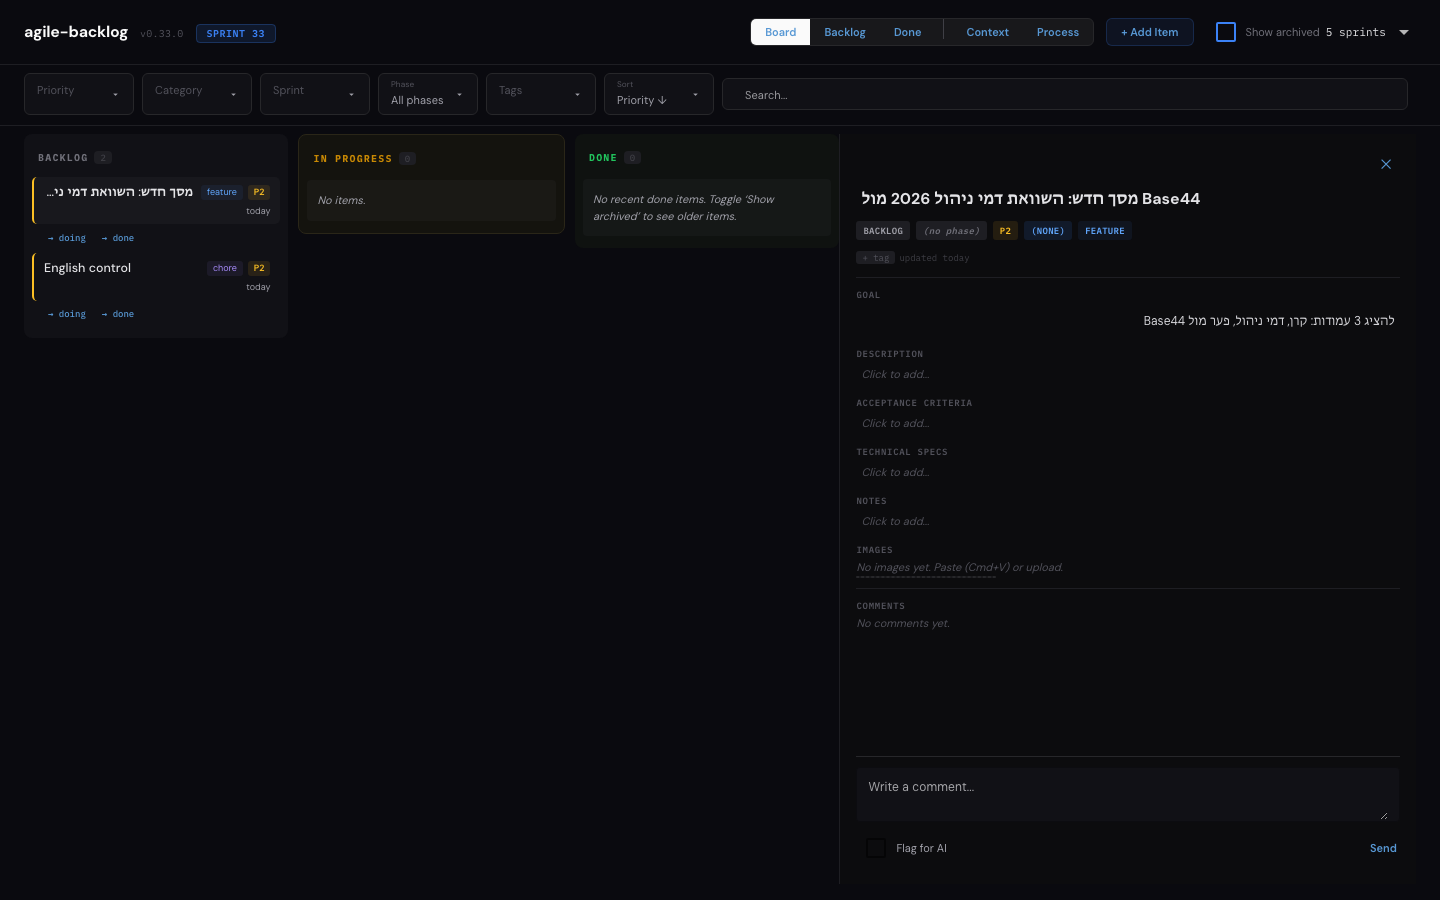
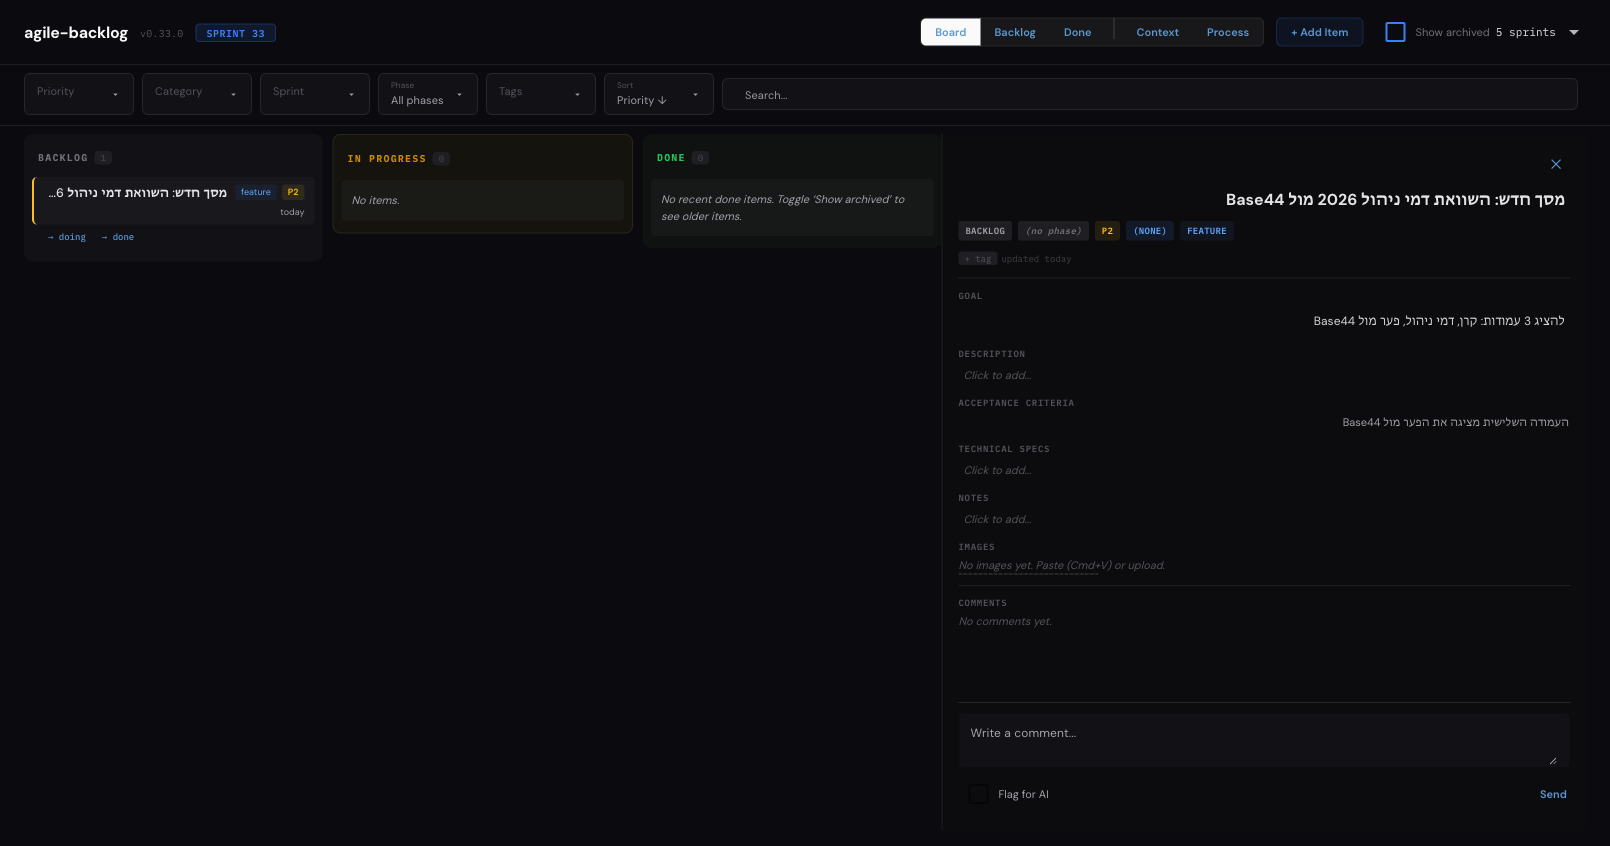
fix(board): descendant bidi coverage, derived test, and --id hardening
Final whole-branch review (Rulings 5-8):

- .mc-editable * closes the Critical-1 gap: unicode-bidi is not
  inherited, and every .mc-editable site is a ui.html(...) wrapper
  whose text lives one element in, so the wrapper-only rule was a
  no-op. pre/code get an !important reset so markdown code blocks
  stay LTR.
- tests/test_bidi.py derives wrapper-class coverage from
  components.py at test time instead of a hand-written list, so it
  actually fails on a wrapper-only rule (verified RED, see report).
- add --id: the derived-slug guard now fires whenever the slug has
  no ASCII letter, not only when it's empty (a Hebrew title with a
  year would otherwise become e.g. backlog/2026.yaml). An explicit
  --id that collides is refused instead of silently suffixed; a
  derived slug still suffixes as before.
- docs/CLI.md and both bidi screenshots updated to match.

Full report incl. RED output, ruff, and the objective bidi
measurement (rect-based, not just screenshots) at
.superpowers/sdd/2026-09-22-hebrew-items/final-fix-report.md.

diff --git a/tests/test_bidi.py b/tests/test_bidi.py
@@ -3,19 +3,37 @@
 # Latin token in it renders scrambled under a fixed LTR base direction; the
 # fix is one CSS rule — unicode-bidi: plaintext — on every text-bearing
 # element, which is what dir="auto" does, without a per-site attribute.
+#
+# unicode-bidi is NOT inherited. A wrapper-only rule (".mc-editable" with
+# no descendant form) is a no-op: every .mc-editable site is a bare
+# ui.html(...) wrapper, and the text lives in an element ui.html() creates
+# one level in (components.py:445, :626), so the rule must reach the
+# wrapper's descendants too. That is exactly the defect a hand-written
+# selector list cannot catch — ".mc-editable" is textually present either
+# way — so the wrapper-class coverage below is DERIVED from components.py
+# at test time, not hand-maintained.
 
+import re
 from pathlib import Path
 
 STYLES = Path(__file__).parent.parent / "src" / "agile_backlog" / "styles.py"
+COMPONENTS = Path(__file__).parent.parent / "src" / "agile_backlog" / "components.py"
 
-TEXT_SELECTORS = [
+# Framework/tag selectors that carry text directly on the element itself
+# (not an app-defined wrapper class), so there is no source list to derive
+# them from and no descendant form is needed.
+FRAMEWORK_TEXT_SELECTORS = [
     ".mc-card-row span",
-    ".mc-editable",
     ".q-field__native",
     "textarea",
     ".nicegui-markdown",
-    ".q-item__label",
 ]
+
+# Matches the actual defect site: a class applied via .classes("mc-...")
+# directly on a ui.html(...) call, e.g.
+#   ui.html(f'<div ...>{safe_html(item.title)}</div>').classes("mc-editable")
+# Verified against the real sites at components.py:445 and :626.
+_WRAPPER_CLASS_RE = re.compile(r'ui\.html\([^\n]*\)\.classes\("(mc-[\w-]+)"\)')
 
 
 def _plaintext_rule() -> str:
@@ -26,11 +44,44 @@ def _plaintext_rule() -> str:
     return css[selector_start:block_start]
 
 
+def _selector_present(selectors: str, selector: str) -> bool:
+    """True if `selector` appears in `selectors` as a whole selector, not
+    merely as a prefix of some other, longer selector (e.g. ".mc-editable"
+    must not match a hypothetical ".mc-editable-foo")."""
+    pattern = re.compile(r"(?<![\w-])" + re.escape(selector) + r"(?=[,\s{]|$)")
+    return bool(pattern.search(selectors))
+
+
+def _wrapper_classes_needing_descendant_coverage() -> set[str]:
+    """Classes applied to a bare ui.html(...) wrapper in components.py."""
+    return set(_WRAPPER_CLASS_RE.findall(COMPONENTS.read_text()))
+
+
 def test_global_css_declares_plaintext_bidi():
     assert "unicode-bidi: plaintext" in STYLES.read_text()
 
 
-def test_every_text_bearing_selector_is_covered():
+def test_framework_text_selectors_are_covered():
     selectors = _plaintext_rule()
-    missing = [s for s in TEXT_SELECTORS if s not in selectors]
+    missing = [s for s in FRAMEWORK_TEXT_SELECTORS if not _selector_present(selectors, s)]
     assert not missing, f"selectors without unicode-bidi: plaintext: {missing}"
+
+
+def test_every_wrapper_class_is_covered_as_wrapper_and_descendant():
+    """Derived from source, not hand-written (final-review Important 2): a
+    hand-written list is textually satisfied by ".mc-editable" alone and
+    stays green on the broken wrapper-only rule. Deriving the class from
+    the actual ui.html(...).classes(...) call sites and requiring BOTH the
+    wrapper form and the descendant form (`X` and `X *`) is what makes this
+    test fail on the wrapper-only rule."""
+    classes = _wrapper_classes_needing_descendant_coverage()
+    assert classes, "no ui.html(...).classes('mc-...') sites found in components.py — regex is stale"
+
+    selectors = _plaintext_rule()
+    missing = []
+    for cls in sorted(classes):
+        if not _selector_present(selectors, f".{cls}"):
+            missing.append(f".{cls}")
+        if not _selector_present(selectors, f".{cls} *"):
+            missing.append(f".{cls} *")
+    assert not missing, f"wrapper classes missing wrapper/descendant coverage: {missing}"

diff --git a/tests/test_cli.py b/tests/test_cli.py
@@ -137,15 +137,40 @@ class TestAdd:
             result = runner.invoke(main, ["add", "x", "--category", "feature", "--id", bad])
             assert result.exit_code == 2, bad
             assert "--id" in result.output, bad
+            assert "Invalid value for '--id'" in result.output, bad
         assert list(backlog_dir.iterdir()) == []
 
-    def test_add_explicit_id_collides_like_a_slug(self, runner: CliRunner, backlog_dir: Path):
+    def test_add_derived_slug_with_no_ascii_letter_is_refused(self, runner: CliRunner, backlog_dir: Path):
+        """A Hebrew title carrying a year slugifies to a bare number
+        ('2026') — accepting it would silently create backlog/2026.yaml.
+        The guard fires whenever the derived slug has no ASCII letter, not
+        only when it is empty."""
+        result = runner.invoke(main, ["add", "דוח 2026 לפי לקוח", "--category", "feature"])
+        assert result.exit_code == 2
+        assert "Title produces an invalid ID" in result.output
+        assert "--id" in result.output
+        assert list(backlog_dir.iterdir()) == []
+
+    def test_add_derived_slug_collision_still_suffixes(self, runner: CliRunner, backlog_dir: Path):
+        runner.invoke(main, ["add", "Same title", "--category", "feature"])
+        result = runner.invoke(main, ["add", "Same title", "--category", "feature"])
+        assert result.exit_code == 0
+        assert "same-title-2" in result.output
+        assert (backlog_dir / "same-title.yaml").exists()
+        assert (backlog_dir / "same-title-2.yaml").exists()
+
+    def test_add_explicit_id_collision_is_refused(self, runner: CliRunner, backlog_dir: Path):
+        """An explicit --id names a specific file; renaming it out from
+        under the caller is a surprise a consumer's lane check would only
+        discover later (id != folder name), so it is refused instead."""
         runner.invoke(main, ["add", "a", "--category", "feature", "--id", "same"])
         result = runner.invoke(main, ["add", "b", "--category", "feature", "--id", "same"])
-        assert result.exit_code == 0
-        assert "same-2" in result.output
+        assert result.exit_code == 2
+        assert "id 'same' already exists" in result.output
         assert (backlog_dir / "same.yaml").exists()
-        assert (backlog_dir / "same-2.yaml").exists()
+        assert not (backlog_dir / "same-2.yaml").exists()
+        data = yaml.safe_load((backlog_dir / "same.yaml").read_text())
+        assert data["title"] == "a", "the first add must not have been overwritten"
 
 
 class TestList:

diff --git a/src/agile_backlog/cli.py b/src/agile_backlog/cli.py
@@ -48,7 +48,7 @@ def main(backlog_dir: str | None):
     "--id",
     "item_id_opt",
     default=None,
-    help="Explicit ASCII id (lowercase, digits, single dashes). Required when the title has no Latin letters.",
+    help="Explicit ASCII id (lowercase, digits, single dashes). Required when the title's slug has no ASCII letter.",
 )
 def add(
     title_pos: str | None,
@@ -76,17 +76,20 @@ def add(
                 param_hint="'--id'",
             )
         item_id = item_id_opt
+        if item_exists(item_id):
+            raise click.UsageError(f"id '{item_id}' already exists.")
     else:
         item_id = slugify(title)
-        if not item_id:
+        if not re.search(r"[a-z]", item_id):
             raise click.UsageError("Title produces an invalid ID; pass --id <ascii-slug>.")
 
-    # Handle slug collision
-    if item_exists(item_id):
-        n = 2
-        while item_exists(f"{item_id}-{n}"):
-            n += 1
-        item_id = f"{item_id}-{n}"
+        # Handle slug collision — a derived id is ours to rename; an
+        # explicit --id above is the caller's and is refused instead.
+        if item_exists(item_id):
+            n = 2
+            while item_exists(f"{item_id}-{n}"):
+                n += 1
+            item_id = f"{item_id}-{n}"
 
     item = BacklogItem(
         id=item_id,

diff --git a/src/agile_backlog/styles.py b/src/agile_backlog/styles.py
@@ -28,15 +28,28 @@ body {
    comments may be Hebrew, English, or Hebrew with digits and Latin
    tokens; plaintext takes each paragraph's direction from its first
    strong character — the CSS form of dir="auto" — so nothing here needs
-   to know which language an item was written in. */
+   to know which language an item was written in. unicode-bidi is NOT
+   inherited: every .mc-editable site is a ui.html(...) wrapper whose text
+   lives one element in (e.g. components.py:445, :626), so the rule must
+   also reach the wrapper's descendants, not just the wrapper itself. */
 .mc-card-row span,
 .mc-editable,
+.mc-editable *,
 .q-field__native,
 textarea,
 .nicegui-markdown,
 .nicegui-markdown *,
 .q-item__label {
     unicode-bidi: plaintext;
+}
+/* ...but not markdown code blocks: a Hebrew comment inside a fenced code
+   sample must stay LTR, not take an RTL base from its first character.
+   !important is required here, not decorative: a class selector like
+   ".nicegui-markdown *" (specificity 0,1,0) outranks a bare "pre, code"
+   reset (specificity 0,0,1) regardless of source order, so an
+   unqualified reset would silently lose to the rule above it. */
+pre, code {
+    unicode-bidi: normal !important;
 }
 .nicegui-content {
     padding: 0 !important;

diff --git a/docs/CLI.md b/docs/CLI.md
@@ -74,7 +74,7 @@ agile-backlog add TITLE [OPTIONS]
 | `--category` | bug/feature/docs/chore | *required* | Category |
 | `--description` | text | "" | Item description |
 | `--sprint` | integer | none | Target sprint number |
-| `--id` | ASCII slug | derived from the title | Explicit ASCII id (lowercase, digits, single dashes); required when the title has no Latin letters (e.g. Hebrew) |
+| `--id` | ASCII slug | derived from the title | Explicit ASCII id (lowercase, digits, single dashes); required when the title's derived slug has no ASCII letter (e.g. an all-Hebrew title, or a Hebrew title with a year in it). An explicit `--id` that already exists is refused, not suffixed. |
 
 ```bash
 agile-backlog add "Fix auth leak" --category bug --priority P1
